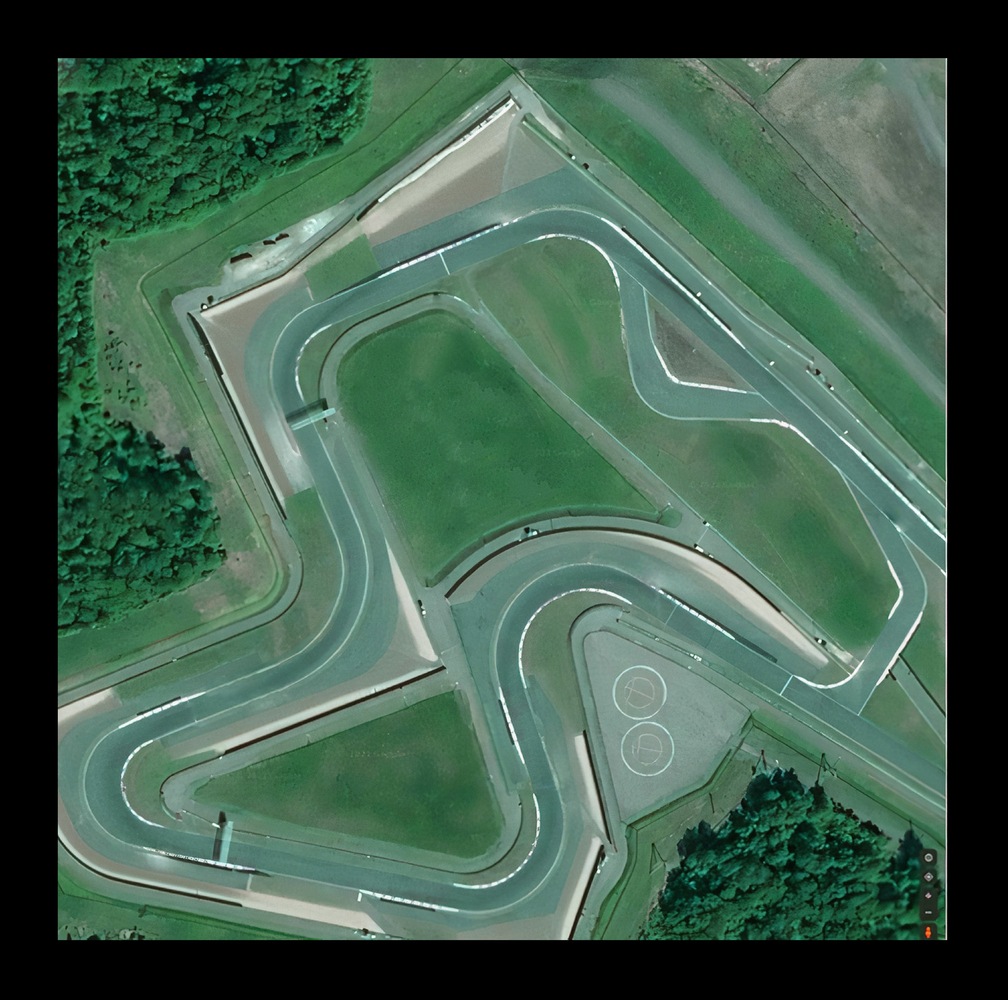
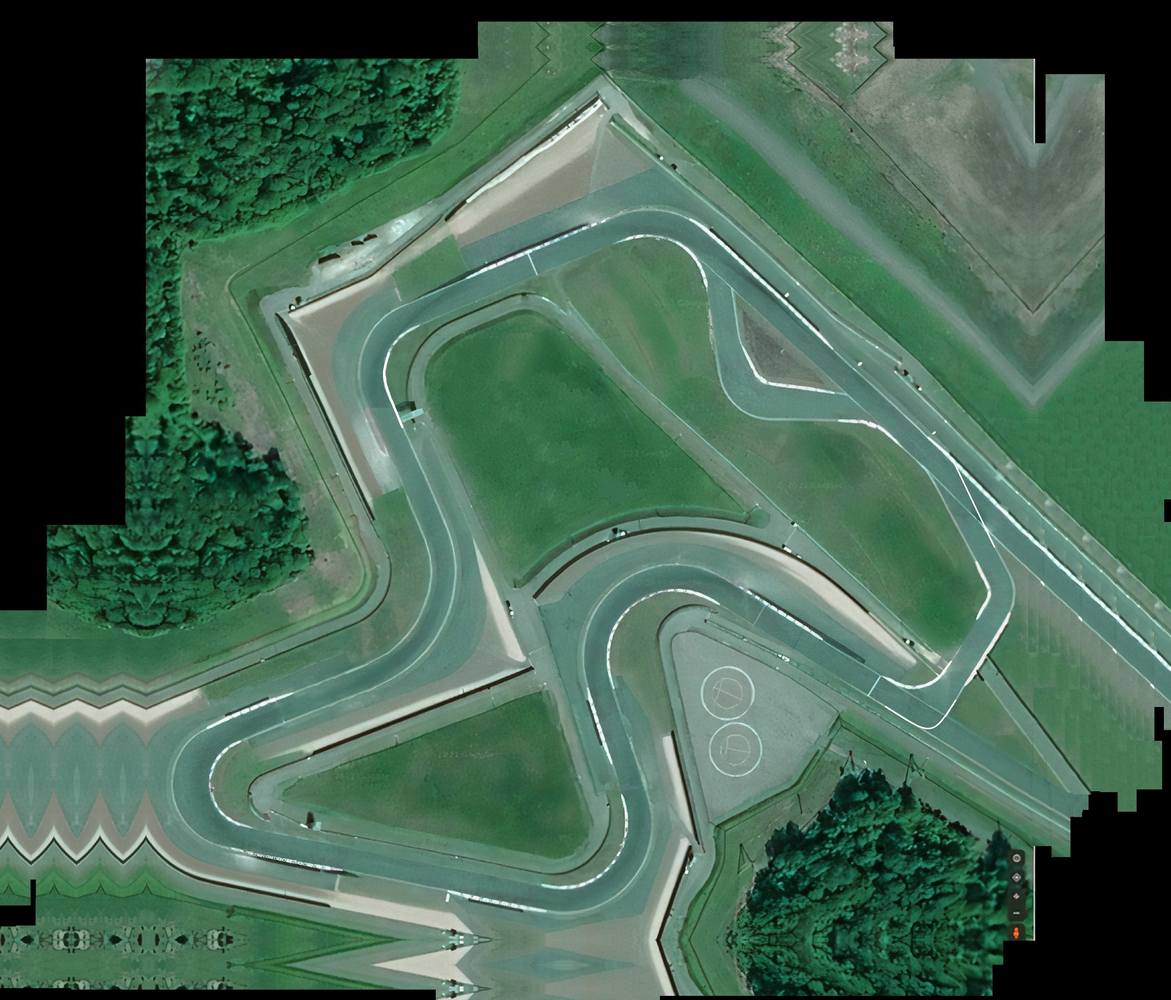
More maps All chosen maps added. There are no more white or black borders on the edges of picture (in full screen mode also).

diff --git a/src/helpers/map_data.h b/src/helpers/map_data.h
@@ -8,21 +8,23 @@ namespace map_data {
 
 // First is data, second is image
 static const std::vector<QString> borders_filepaths{
-    {":resources/images/map_data/map_1.txt"},
-    {":resources/images/map_data/map_2.txt"},
-    {":resources/images/map_data/map_3.txt"},
-    {":resources/images/map_data/map_4.txt"},
-    {":resources/images/map_data/map_5.txt"},
-    {":resources/images/map_data/map_6.txt"}
+    {":resources/images/map_data/Map_1.txt"},
+    {":resources/images/map_data/Map_2.txt"},
+    {":resources/images/map_data/Map_3.txt"},
+    {":resources/images/map_data/Map_4.txt"},
+    {":resources/images/map_data/Map_5.txt"},
+    {":resources/images/map_data/Map_6.txt"},
+    {":resources/images/map_data/Map_7.txt"},
 };
 
 static const std::vector<QString> image_filepaths{
-    {":resources/images/maps/map_1.jpg"},
-    {":resources/images/maps/map_2.jpg"},
-    {":resources/images/maps/map_3.jpg"},
-    {":resources/images/maps/map_4.jpg"},
-    {":resources/images/maps/map_5.jpg"},
-    {":resources/images/maps/map_6.jpg"}
+    {":resources/images/maps/Map_1.jpg"},
+    {":resources/images/maps/Map_2.jpg"},
+    {":resources/images/maps/Map_3.jpg"},
+    {":resources/images/maps/Map_4.jpg"},
+    {":resources/images/maps/Map_5.jpg"},
+    {":resources/images/maps/Map_6.jpg"},
+    {":resources/images/maps/Map_7.jpg"}
 };
 
 }  // namespace map_data

diff --git a/src/Menu/map_selector_tile.cpp b/src/Menu/map_selector_tile.cpp
@@ -11,5 +11,5 @@ MapSelectorTile::MapSelectorTile(QWidget* parent,
 void MapSelectorTile::paintEvent(QPaintEvent*) {
   QPainter qp(this);
   qp.scale(0.5, 0.5);
-  qp.drawPixmap(0, 0, *pixmap_, 0, 0, 800, 800);
+  qp.drawPixmap(0, 0, *pixmap_, 800, 800, 1000, 1000);
 }
